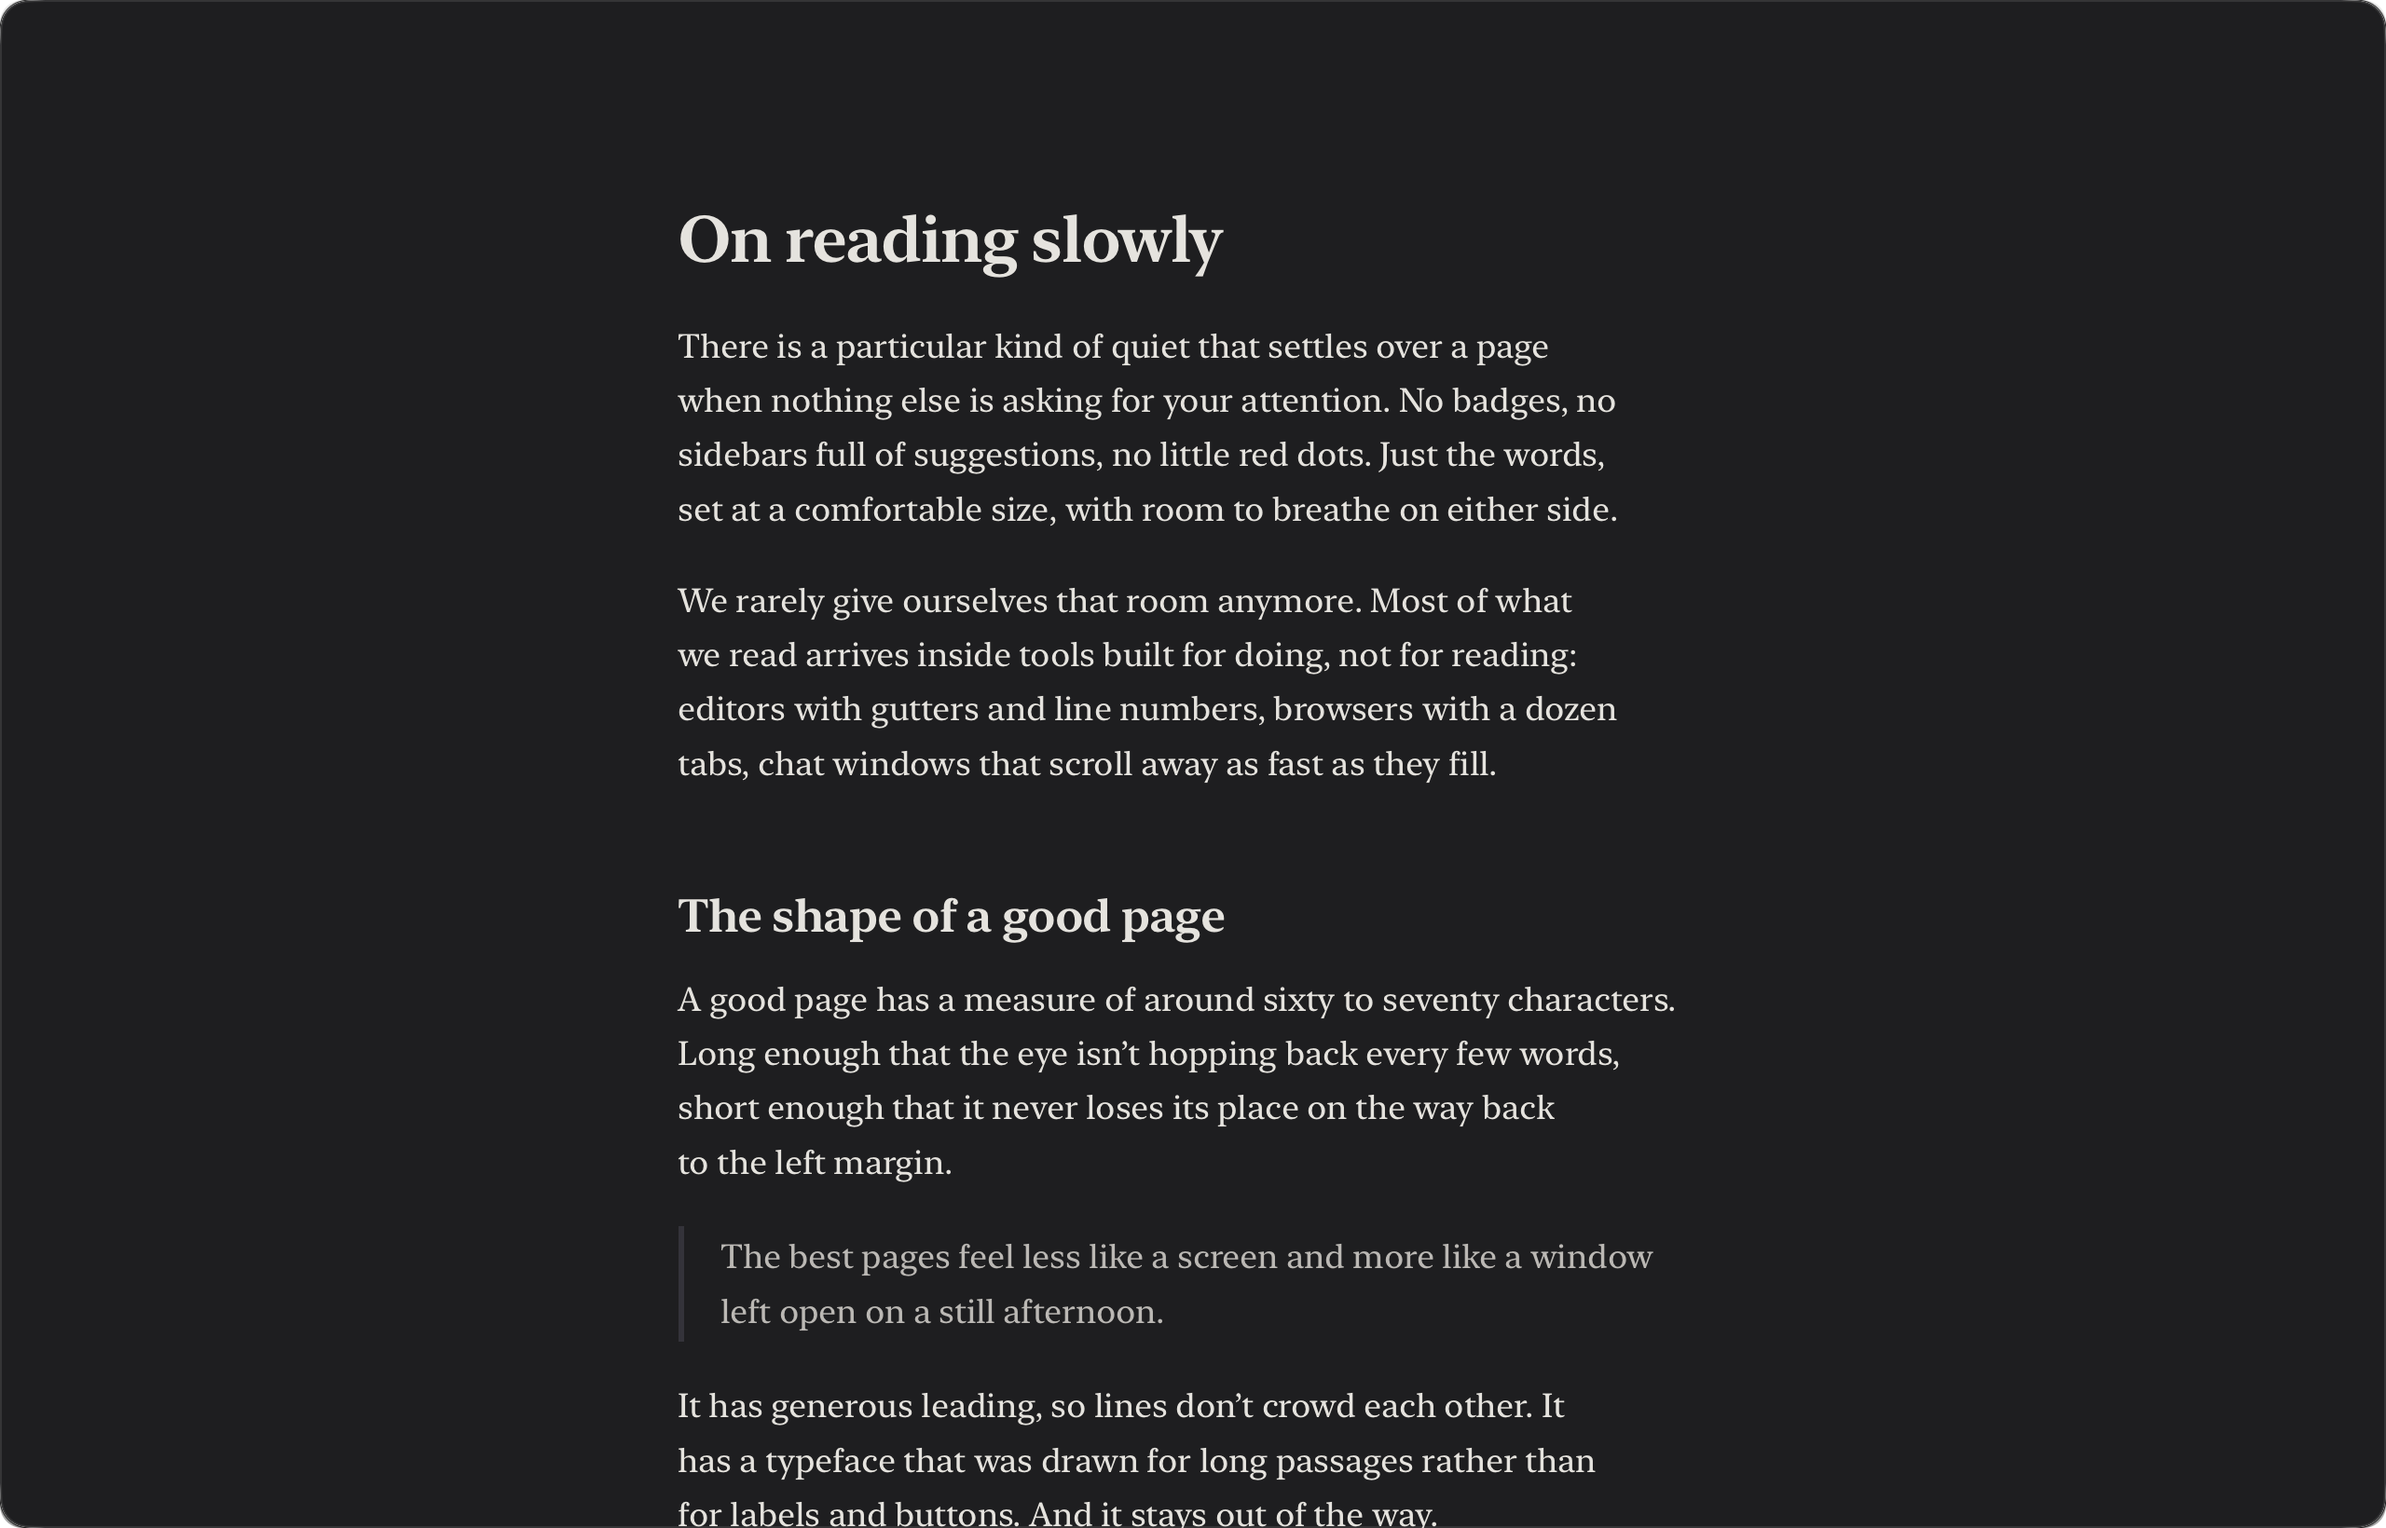
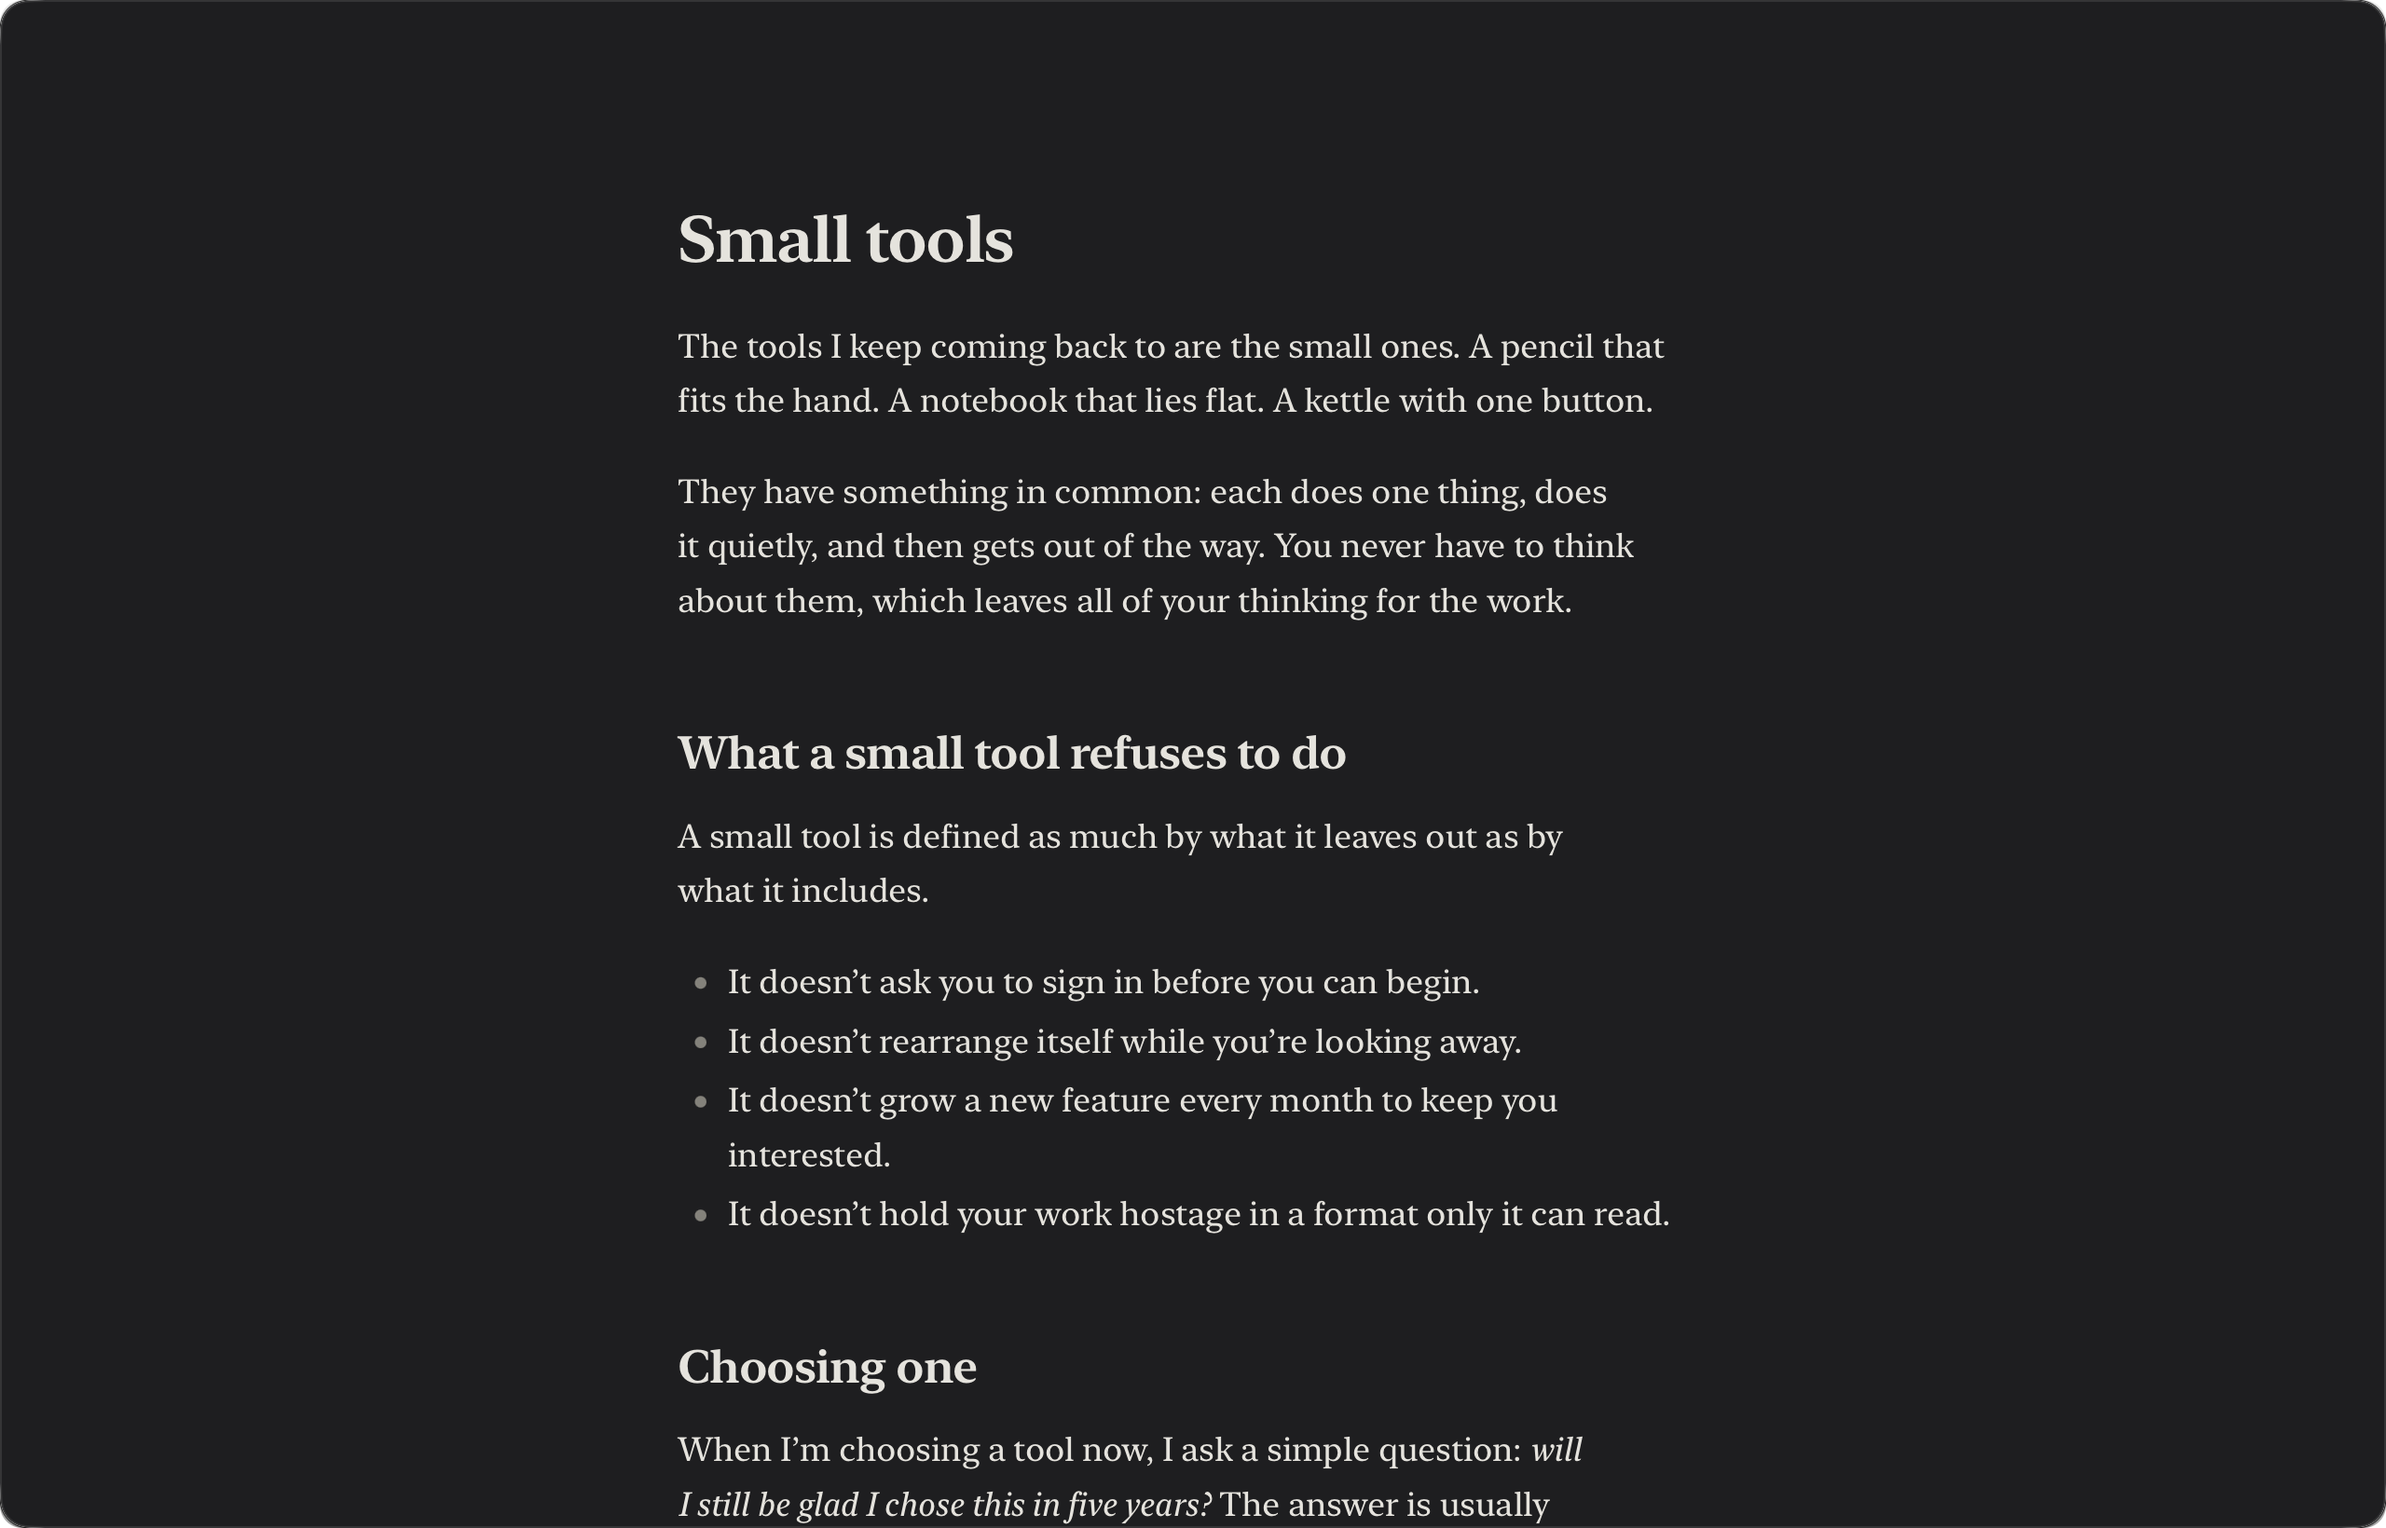
Review fixes: Quick Look before/after, new Focus Mode shot, AA contrast
- Quick Look section shows Finder's raw-text preview next to Stillread's
- Made for reading uses a different note in Focus Mode instead of repeating the hero
- Faint grey darkened (light) and lightened (dark) to pass WCAG AA; hero no longer fades in
- Dark sidebar screenshot retaken with a focused window
- README: Hover registrar, Cloudflare DNS (DNS only)

Changed region(s): [[0.2812, 0.2177, 0.6875, 1.0], [0.2812, 0.1244, 0.5312, 0.1866]]

diff --git a/src/styles/global.css b/src/styles/global.css
@@ -23,7 +23,7 @@
     --paper-deep: #f1ebdf;
     --ink: #2b2925;
     --ink-soft: #5b574f;
-    --ink-faint: #8a8273;
+    --ink-faint: #6f6859;   /* 5.1:1 on paper, AA for small text */
     --rule: #e4ddd0;
     --water: #bccdd5;
     --water-deep: #8aa3b0;
@@ -37,7 +37,7 @@
         --paper-deep: #262629;
         --ink: #e6e3dd;
         --ink-soft: #b3afa7;
-        --ink-faint: #85827b;
+        --ink-faint: #9a968e;   /* 5.6:1 on paper */
         --rule: #34333a;
         --water: #3a4c57;
         --water-deep: #5f7a88;
@@ -109,17 +109,4 @@ html {
 .focus-ring {
     outline-offset: 4px;
     &:focus-visible { outline: 2px solid var(--water-ink); }
-}
-
-.fade-in {
-    animation: fade-in 0.9s ease-out both;
-}
-
-@keyframes fade-in {
-    from { opacity: 0; transform: translateY(6px); }
-    to { opacity: 1; transform: none; }
-}
-
-@media (prefers-reduced-motion: reduce) {
-    .fade-in { animation: none; }
 }

diff --git a/README.md b/README.md
@@ -17,6 +17,15 @@ Everything that changes at launch lives in `src/config.ts`:
 - `supportEmail`: shown (lightly obfuscated) on every page.
 - `fathomSite`: Fathom site ID. Empty keeps analytics off.
 
+## Deploy and DNS
+
+- Hosting: Netlify, building from this repo (settings come from `netlify.toml`).
+- Domain: registered at Hover; DNS is on Cloudflare.
+- Cloudflare records, all **DNS only (grey cloud), never proxied**, so Netlify can issue and renew HTTPS:
+  - `A` · `stillread.app` → `75.2.60.5` (Netlify's load balancer)
+  - `CNAME` · `www` → `<site-name>.netlify.app`
+- In Netlify, add both `stillread.app` and `www.stillread.app` under Domain management, make `stillread.app` primary, then verify DNS under HTTPS.
+
 ## Later
 
 - `/changelog`: add `src/pages/changelog.astro` and list it in `src/pages/sitemap.xml.ts`.
